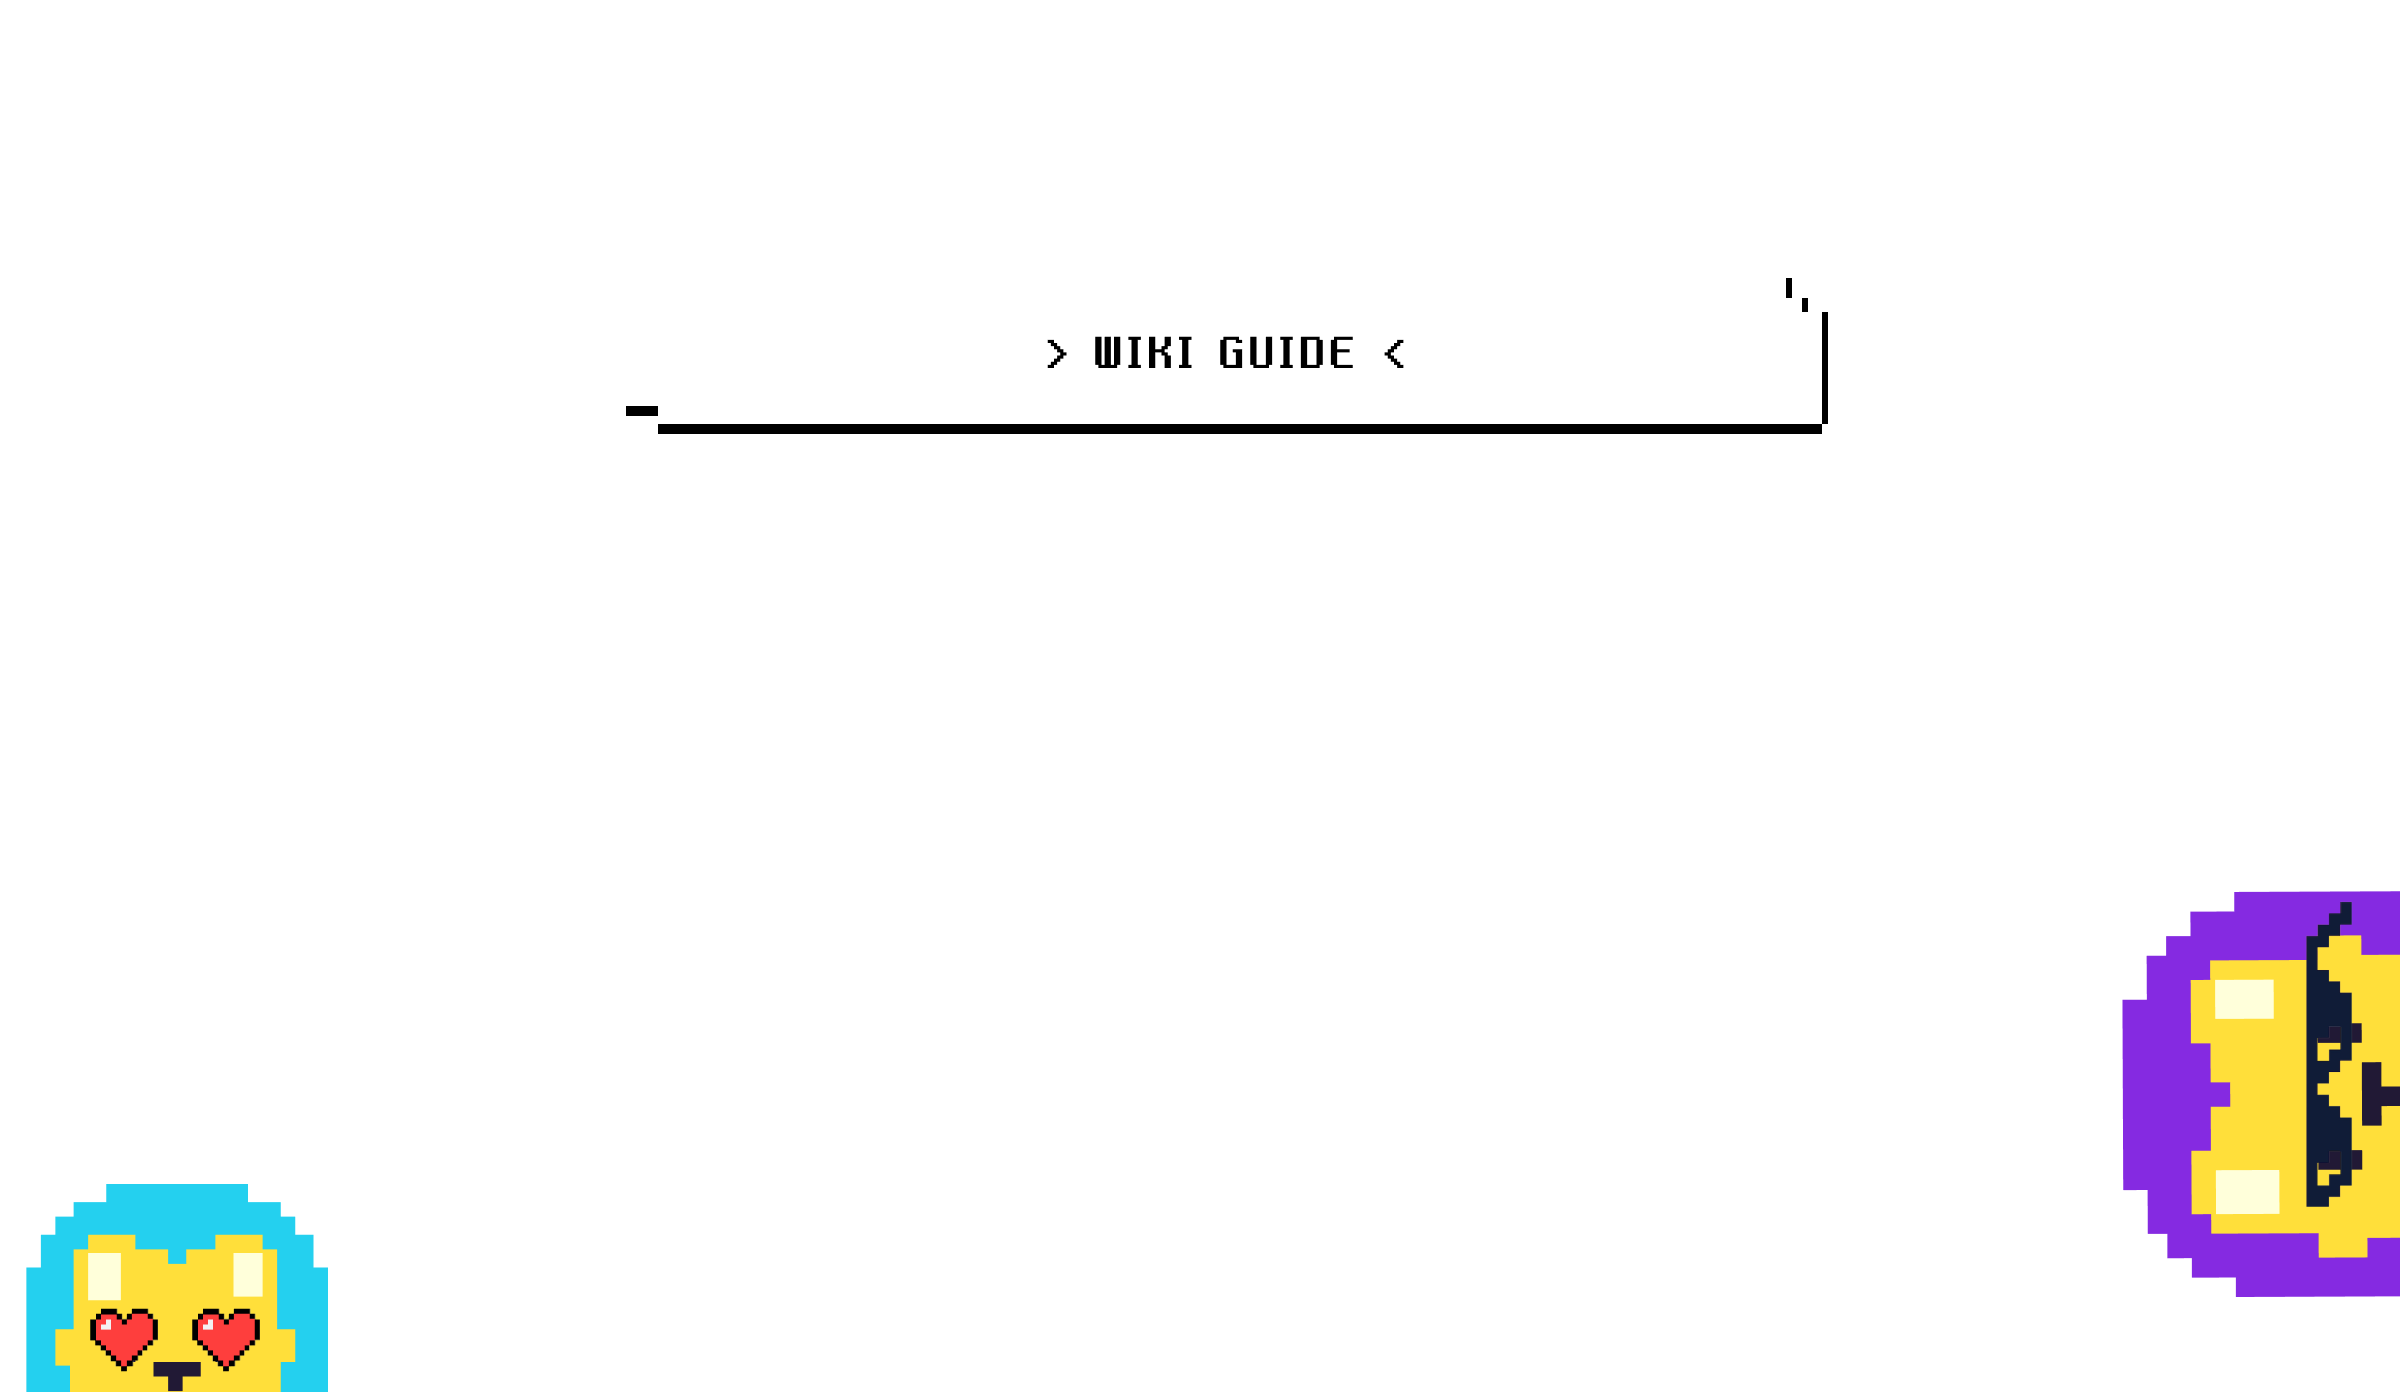
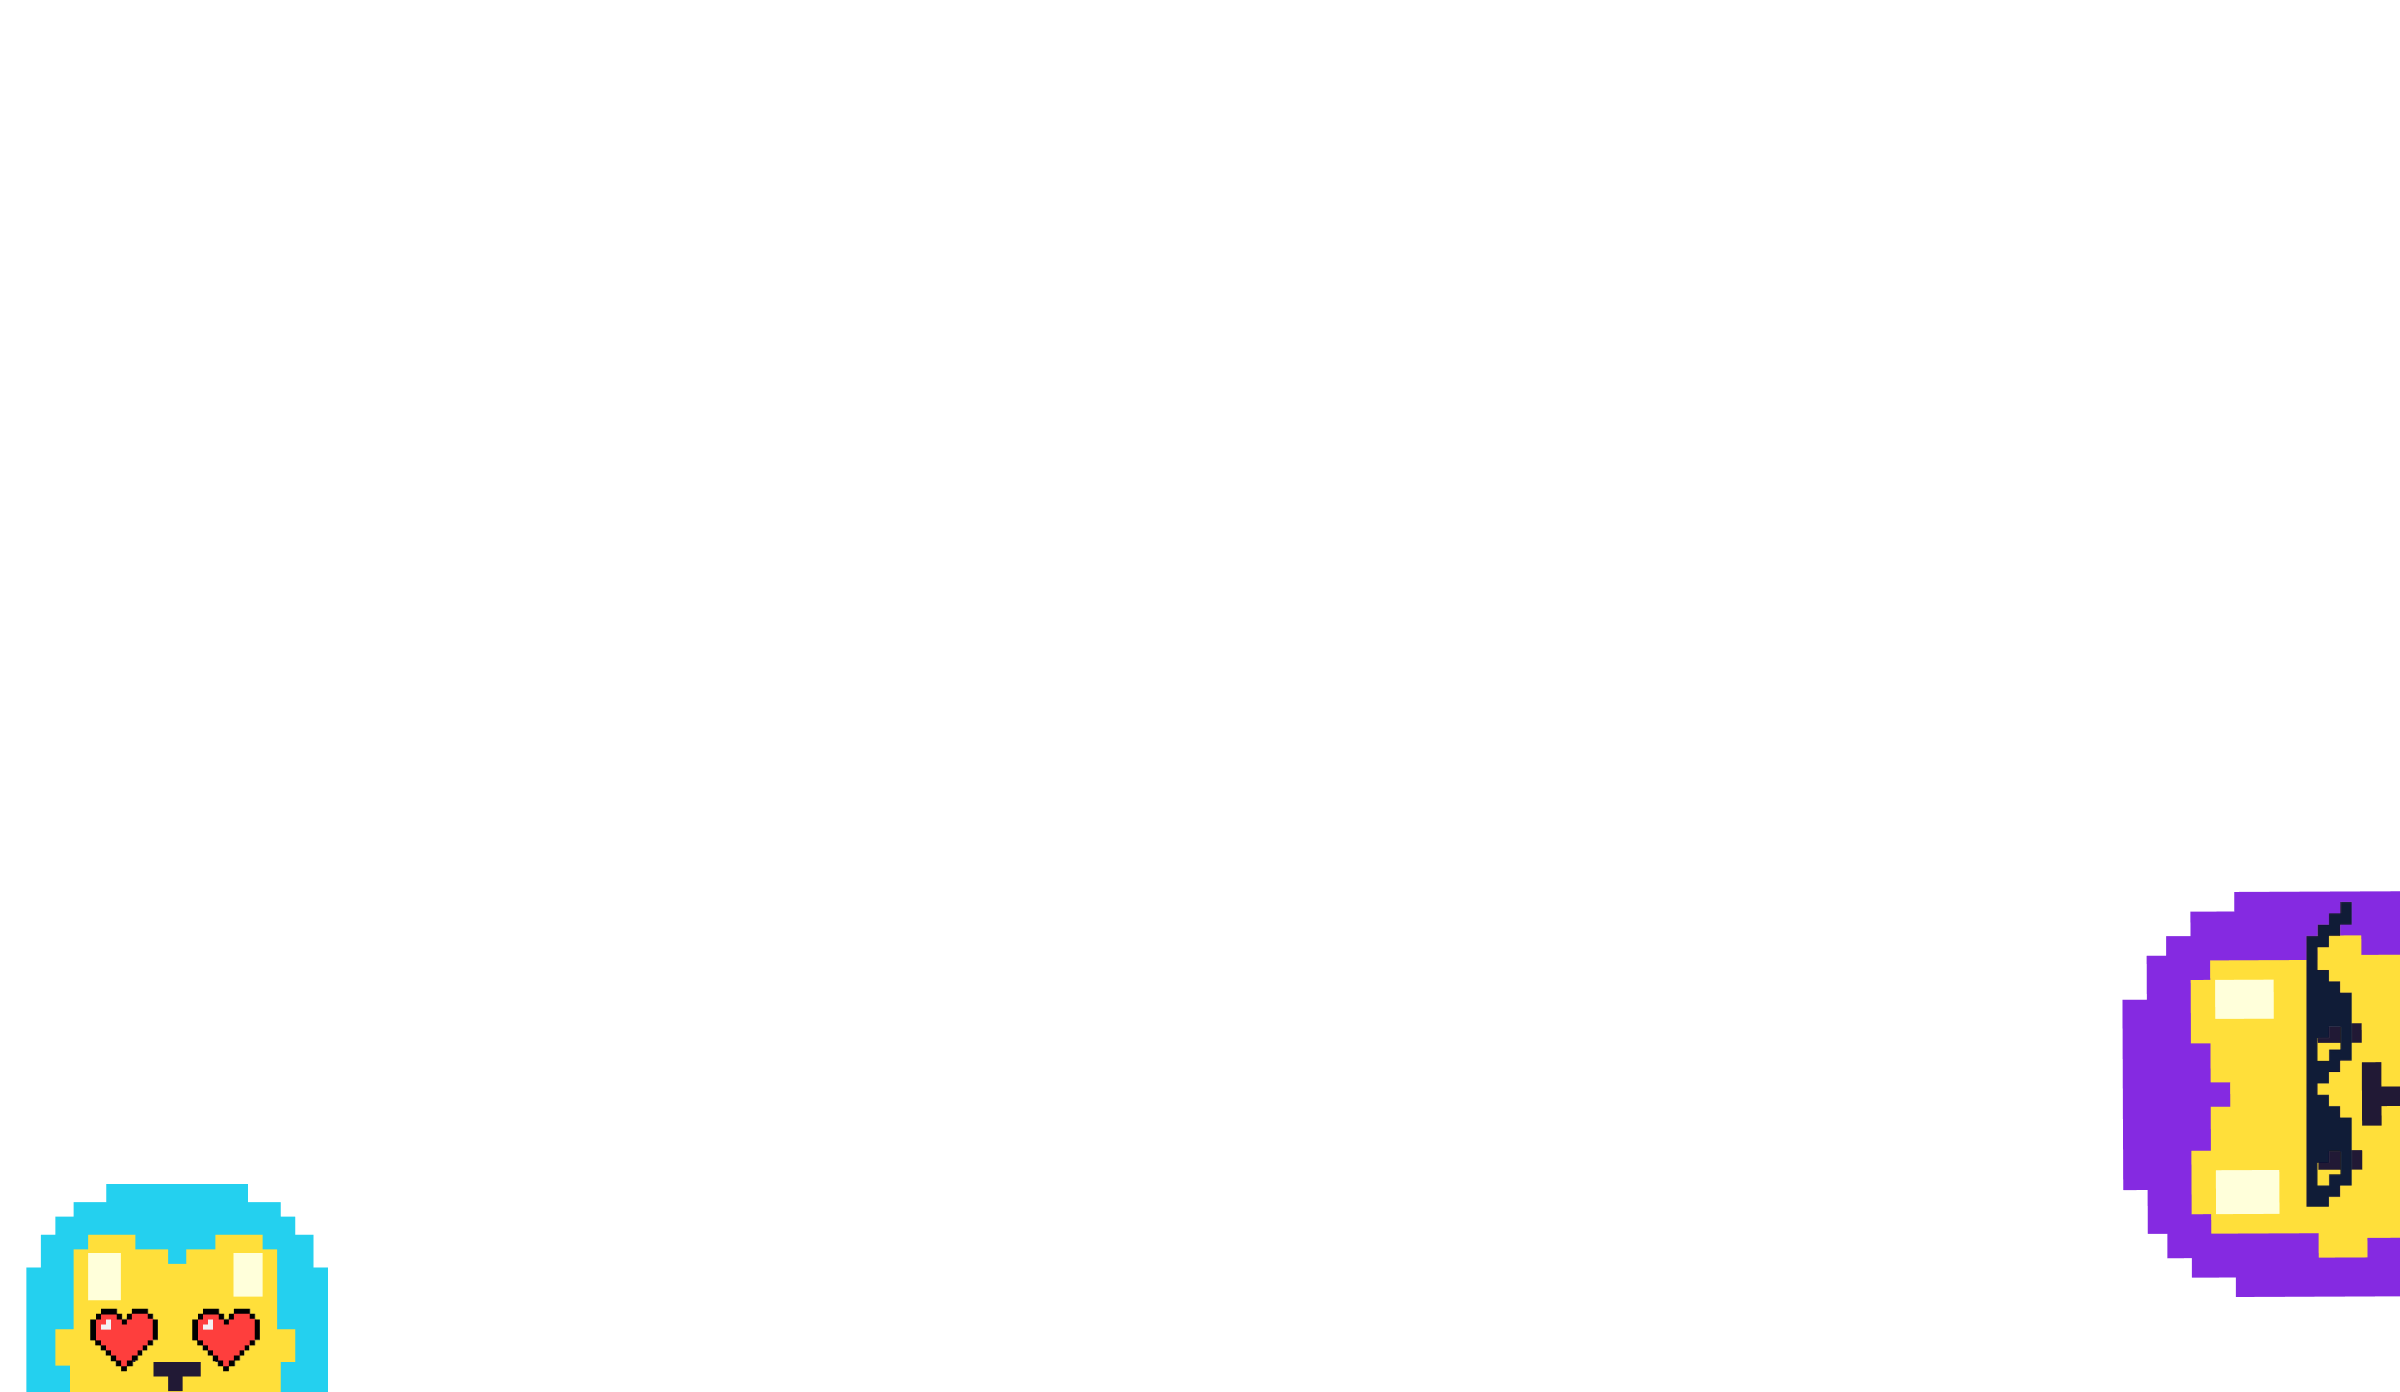
[FEAT] 랜딩 이미지 분리

Changed region(s): [[0.25, 0.2471, 0.7812, 0.3089]]

diff --git a/src/components/landing/LandingSection2.tsx b/src/components/landing/LandingSection2.tsx
@@ -8,28 +8,53 @@ const LandingSection2 = () => {
 	return (
 		<ImageWrapper>
 			<Box>
+				<StyledImage3 src="/img/list.png" alt="닉네임 박스 이미지" fill priority />
 				<Content></Content>
 				<StyledImage2 src="/img/recent.png" alt="닉네임 박스 이미지" fill priority />
 			</Box>
-			<StyledImage src="/img/landing2.png" alt={'랜딩'} fill priority></StyledImage>
+			<LionWrapper>
+				<Lions>
+					<StyledImage src="/img/landingblue.png" alt="파랑 사자" fill priority />
+					<StyledImage src="/img/landinggreen.png" alt="초록 사자" fill priority />
+				</Lions>
+				<Lions>
+					<StyledImage src="/img/landingorange.png" alt="주황 사자" fill priority />
+					<StyledImage src="/img/landingred.png" alt="빨강 사자" fill priority />
+				</Lions>
+			</LionWrapper>
 		</ImageWrapper>
 	);
 };
 
 export default LandingSection2;
 
+const ImageWrapper = styled.div`
+	width: 100%;
+	height: 98vh;
+	display: flex;
+	flex-direction: column;
+	justify-content: center;
+	align-items: center;
+	position: relative;
+	top: 15rem;
+`;
+
 const Box = styled.div`
 	position: relative;
-	width: 38%;
+	width: 44%;
 	display: flex;
 	flex-direction: column;
 	align-items: center;
 	justify-content: center;
 	height: max-content;
+	margin-left: 3rem;
+	gap: 1rem;
+	bottom: 7rem;
+	z-index: 1;
 `;
 
 const Content = styled.div`
-	z-index: 1;
+	z-index: 2;
 	position: absolute;
 	margin-top: 4rem;
 	height: 70%;
@@ -41,9 +66,9 @@ const Content = styled.div`
 	gap: 3rem;
 `;
 
-const ImageWrapper = styled.div`
-	width: 100%;
-	position: relative;
+const StyledImage = styled(Image)`
+	position: relative !important;
+	height: fit-content;
 `;
 
 const StyledImage2 = styled(Image)`
@@ -52,9 +77,10 @@ const StyledImage2 = styled(Image)`
 	object-fit: cover;
 `;
 
-const StyledImage = styled(Image)`
+const StyledImage3 = styled(Image)`
 	position: relative !important;
-	height: fit-content;
+	height: unset !important;
+	object-fit: cover;
 `;
 
 const ImageWrapper2 = styled.div`
@@ -62,14 +88,25 @@ const ImageWrapper2 = styled.div`
 	height: 15rem;
 `;
 
-const ShortCuts1 = styled.div`
-	background: url('/img/recent.svg');
-	background-repeat: no-repeat;
-	background-size: cover;
-`;
+const ShortCuts1 = styled.div``;
 
 const ShortCuts2 = styled.div`
 	position: relative;
 	width: 15rem;
 	background-color: black;
+`;
+
+const LionWrapper = styled.div`
+	display: flex;
+	width: 100%;
+	justify-content: space-between;
+	align-items: center;
+	position: relative;
+	bottom: 20rem;
+`;
+
+const Lions = styled.div`
+	display: flex;
+	width: fit-content;
+	height: 20rem;
 `;

diff --git a/src/components/landing/LandingSection3.tsx b/src/components/landing/LandingSection3.tsx
@@ -6,9 +6,26 @@ import styled from 'styled-components';
 
 const LandingSection3 = () => {
 	return (
-		<ImageWrapper>
-			<StyledImage src="/img/landing3.png" alt={'랜딩'} fill priority></StyledImage>
-		</ImageWrapper>
+		<>
+			<ImageWrapper>
+				<Wrapper>
+					<Title>
+						<StyledImage src="/img/wikiGuide.png" alt={'랜딩'} fill priority></StyledImage>
+					</Title>
+					<Box>
+						<StyledImage src="/img/guideSection.png" alt={'랜딩'} fill priority></StyledImage>
+					</Box>
+				</Wrapper>
+			</ImageWrapper>
+			<LionWrapper>
+				<Lion1>
+					<StyledImage2 src="/img/heartlion.png" alt={'랜딩'} fill priority></StyledImage2>
+				</Lion1>
+				<Lion2>
+					<StyledImage2 src="/img/glasslion.png" alt={'랜딩'} fill priority></StyledImage2>
+				</Lion2>
+			</LionWrapper>
+		</>
 	);
 };
 
@@ -16,10 +33,87 @@ export default LandingSection3;
 
 const ImageWrapper = styled.div`
 	width: 100%;
+	height: 98vh;
 	position: relative;
+	display: flex;
+	flex-direction: column;
+	justify-content: center;
+	align-items: center;
+`;
+
+const Wrapper = styled.div`
+	display: flex;
+	flex-direction: column;
+	justify-content: center;
+	align-items: center;
+	position: relative;
+	width: 100%;
+	gap: 1rem;
+`;
+
+const Title = styled.div`
+	position: relative;
+	width: 45%;
+	display: flex;
+	flex-direction: column;
+	align-items: center;
+	justify-content: center;
+	height: max-content;
+	margin-left: 3rem;
+	z-index: 1;
+`;
+
+const Box = styled.div`
+	position: relative;
+	width: 70%;
+	display: flex;
+	flex-direction: column;
+	align-items: center;
+	justify-content: center;
+	height: max-content;
+	margin-left: 3rem;
+	gap: 1rem;
+	z-index: 1;
 `;
 
 const StyledImage = styled(Image)`
 	position: relative !important;
 	height: fit-content;
+`;
+
+const LionWrapper = styled.div`
+	position: relative;
+	width: 100%;
+`;
+
+const Lion1 = styled.div`
+	position: absolute;
+	width: 15rem;
+	bottom: 0;
+	left: 3rem;
+`;
+
+const Lion2 = styled.div`
+	position: absolute;
+	width: 12rem;
+	bottom: 2rem;
+	right: 0;
+`;
+
+const StyledImage2 = styled(Image)`
+	position: relative !important;
+	height: fit-content;
+`;
+
+const Content = styled.div`
+	z-index: 2;
+	position: absolute;
+	margin-top: 4rem;
+	height: 70%;
+	width: 90%;
+	display: flex;
+	align-items: center;
+	justify-content: center;
+	flex-direction: column;
+	gap: 3rem;
 `;

diff --git a/src/components/landing/LandingSection1.tsx b/src/components/landing/LandingSection1.tsx
@@ -7,7 +7,14 @@ import styled from 'styled-components';
 const LandingSection1 = () => {
 	return (
 		<ImageWrapper>
-			<StyledImage src="/img/landing1.png" alt={'랜딩'} fill priority></StyledImage>
+			<Wrapper>
+				<Title>
+					<StyledImage src="/img/landingTitle.png" alt={'랜딩'} fill priority></StyledImage>
+				</Title>
+				<Game>
+					<StyledImage src="/img/landingGame.png" alt={'랜딩'} fill priority></StyledImage>
+				</Game>
+			</Wrapper>
 		</ImageWrapper>
 	);
 };
@@ -16,7 +23,29 @@ export default LandingSection1;
 
 const ImageWrapper = styled.div`
 	width: 100%;
+	height: 99vh;
+	display: flex;
+	flex-direction: column;
+	justify-content: center;
+	align-items: center;
+`;
+
+const Wrapper = styled.div`
+	display: flex;
+	justify-content: space-evenly;
+	align-items: center;
 	position: relative;
+	width: 90%;
+	top: 2rem;
+	gap: 10rem;
+`;
+
+const Title = styled.div`
+	width: 30rem;
+`;
+
+const Game = styled.div`
+	width: 70rem;
 `;
 
 const StyledImage = styled(Image)`

diff --git a/src/components/landing/Landing.tsx b/src/components/landing/Landing.tsx
@@ -7,22 +7,12 @@ import { styled } from 'styled-components';
 
 const Landing = () => {
 	return (
-		<LandingSection>
+		<>
 			<LandingSection1 />
 			<LandingSection2 />
 			<LandingSection3 />
-		</LandingSection>
+		</>
 	);
 };
 
 export default Landing;
-
-const LandingSection = styled.div`
-background: #4c4df5;
-height: fit-content;
-width: 100%;
-display: flex;
-align-items: center;
-justify-content: center;
-flex-direction: column;
-font-family: NeoDunggeunmo Pro;`;
